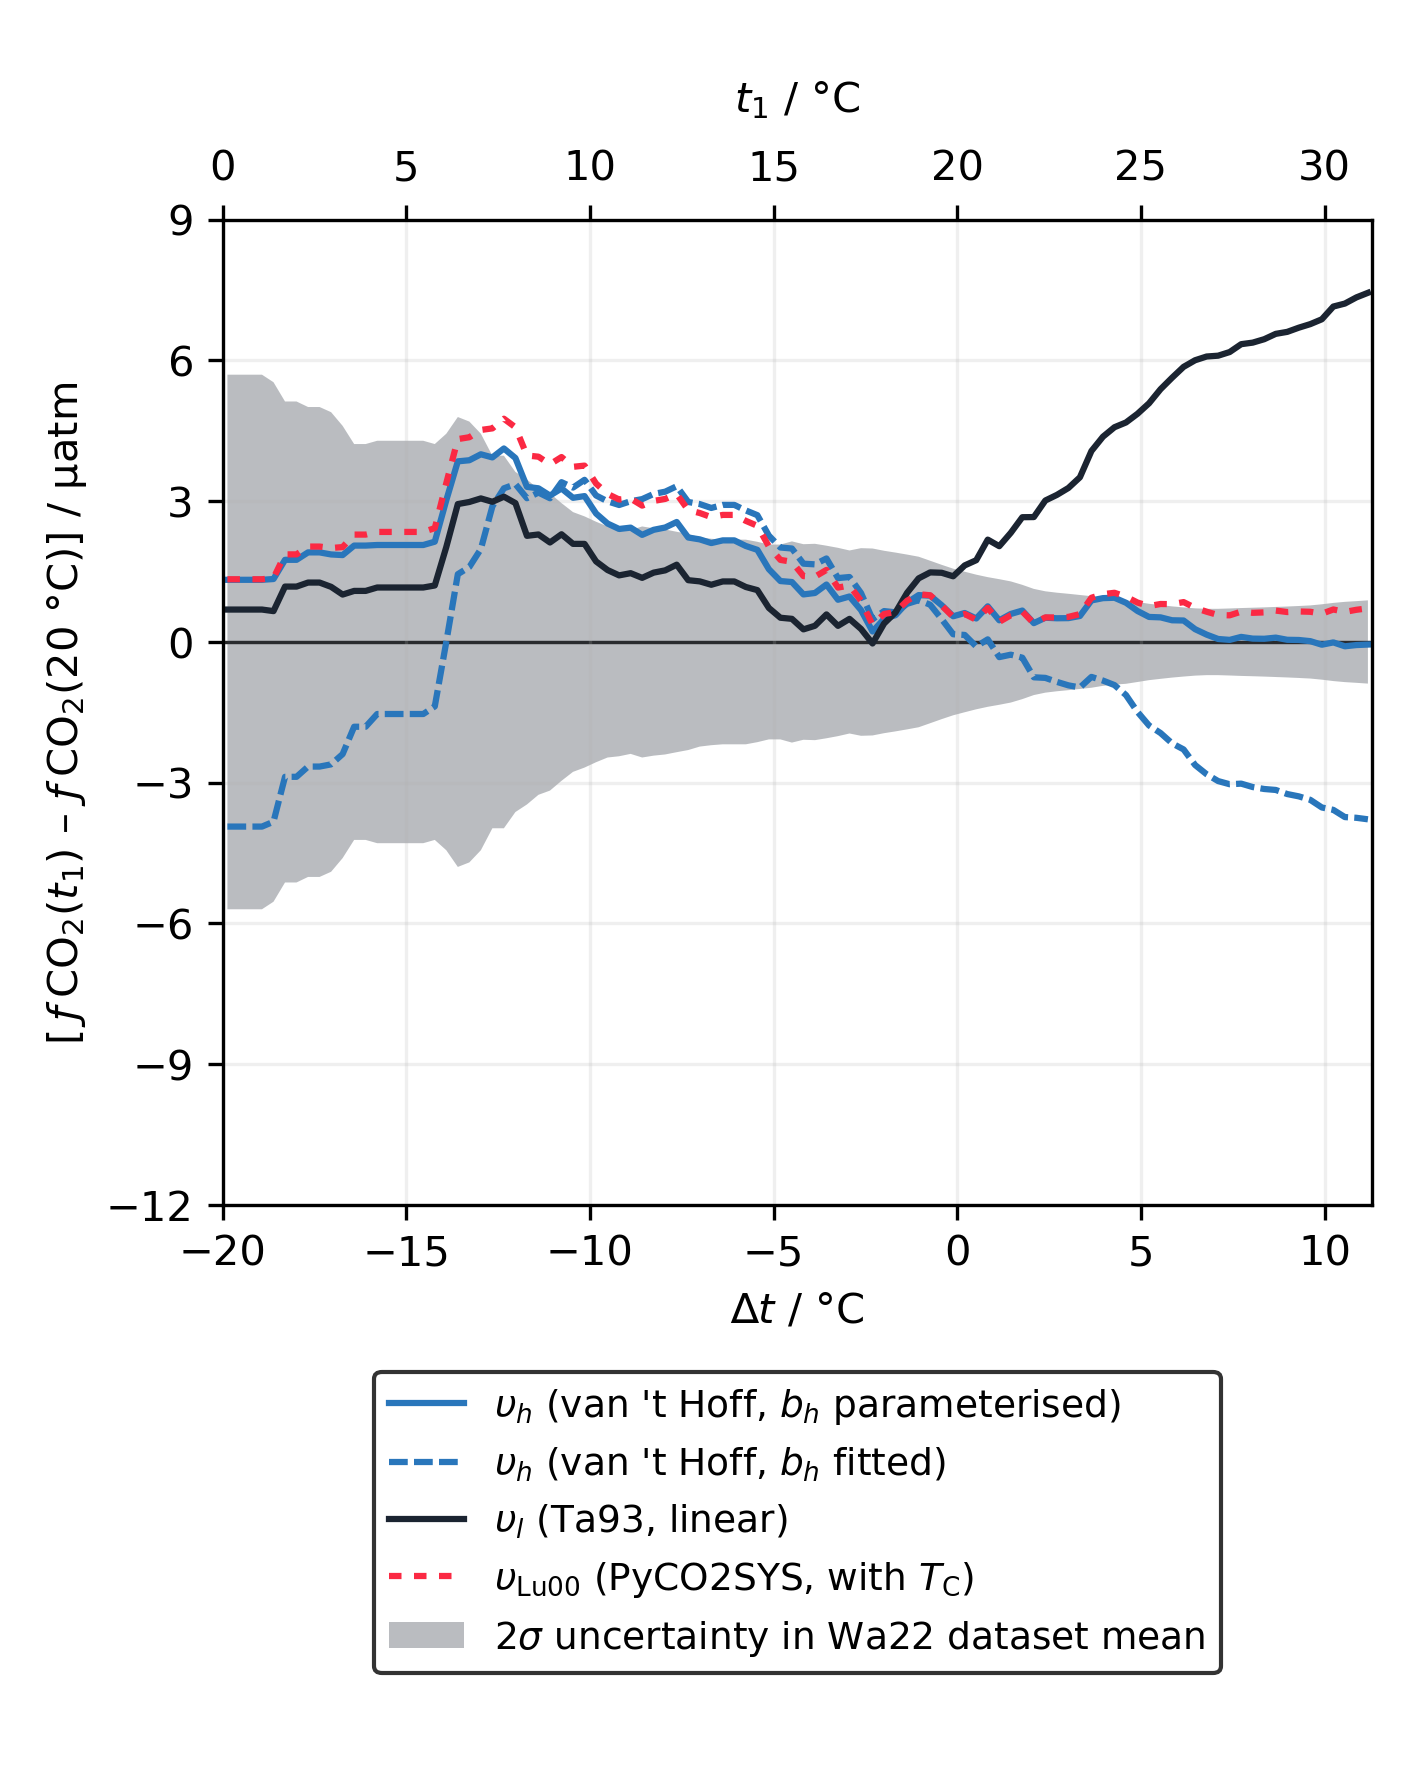
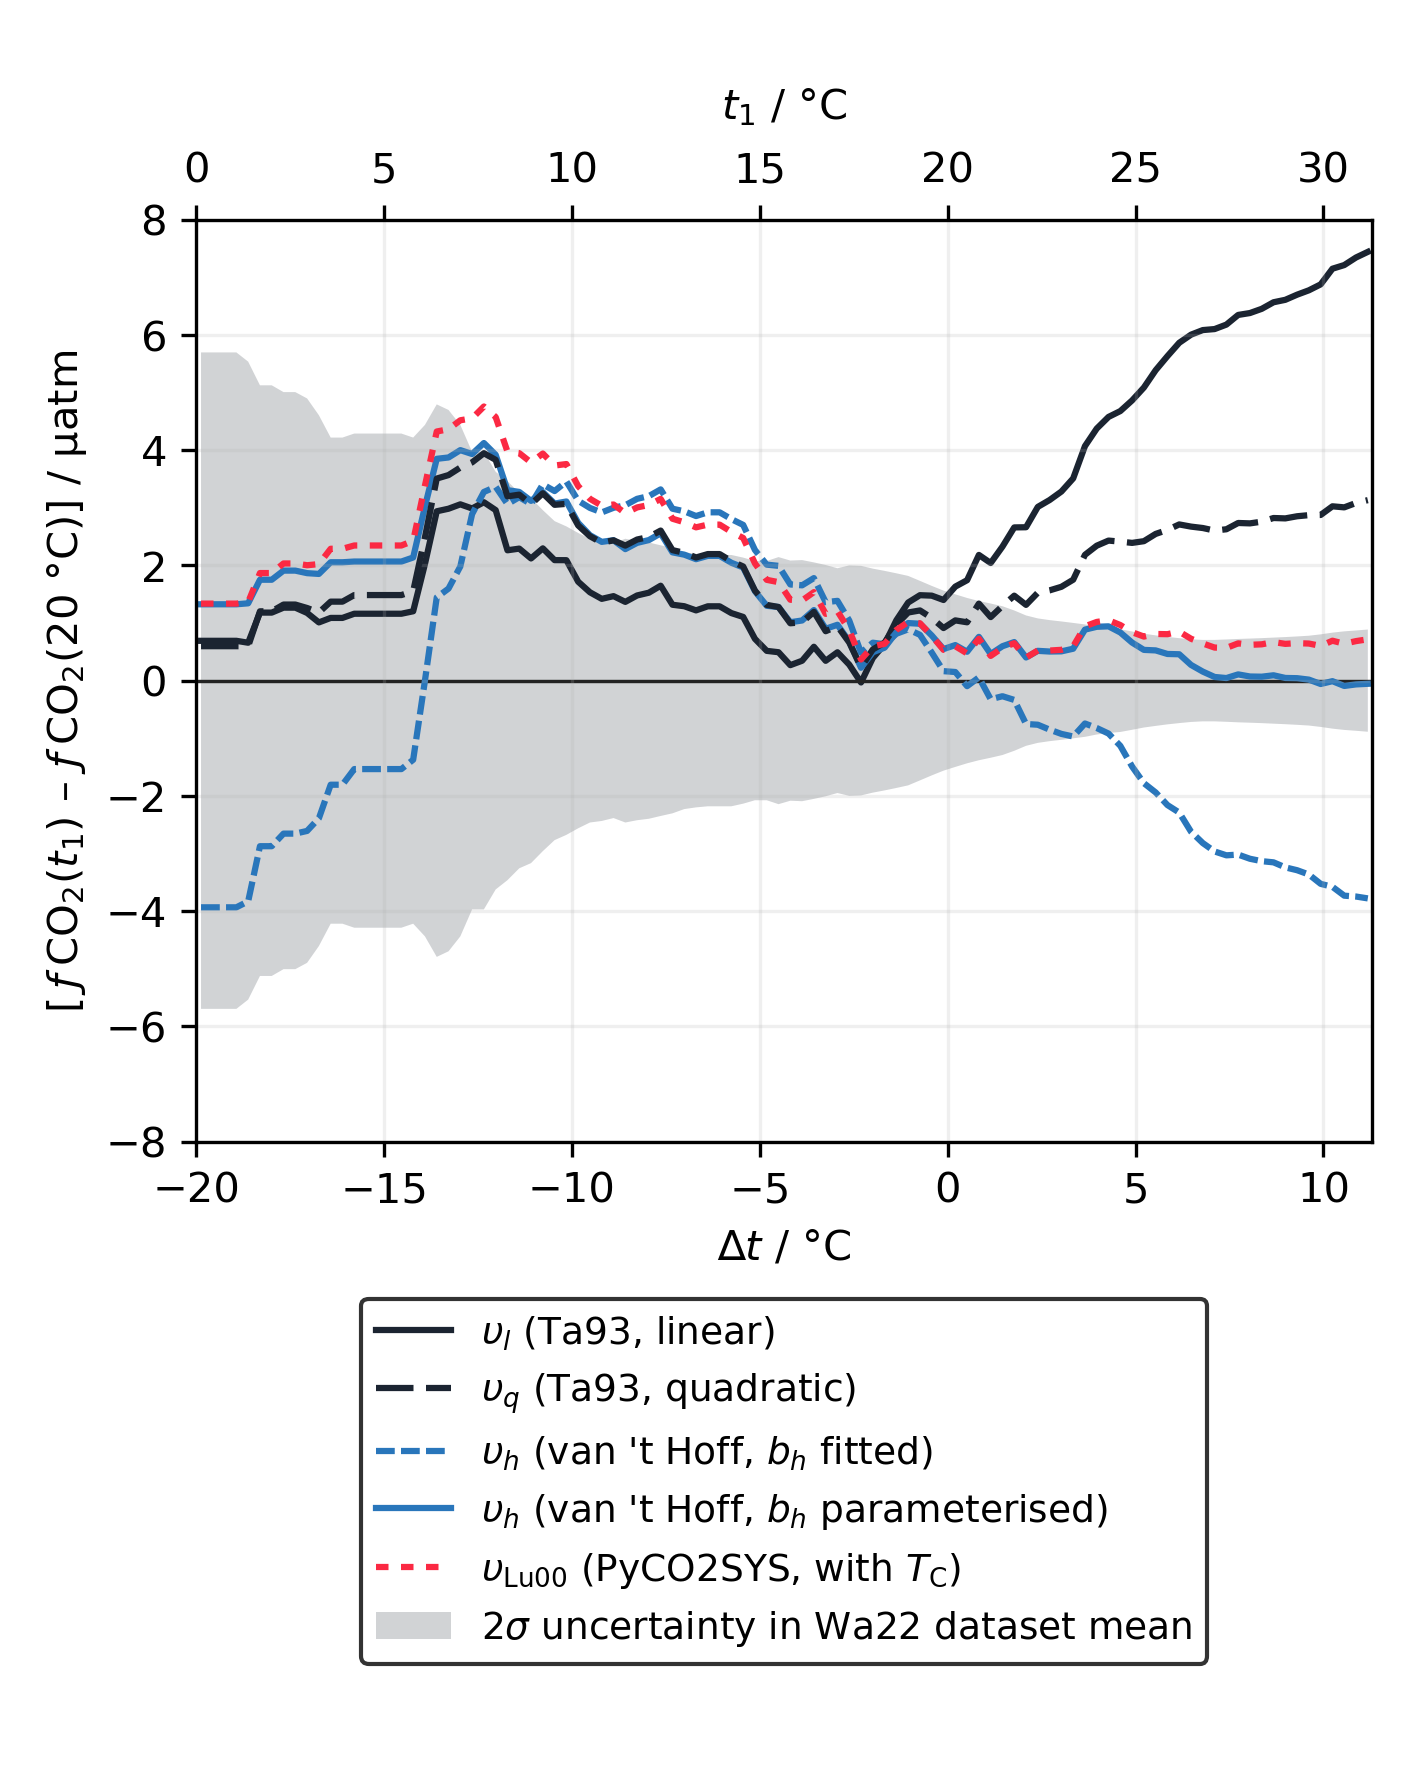
Today's updates

diff --git a/figure2.py b/figure2.py
@@ -61,7 +61,7 @@ results_25 = pyco2.sys(
 wkf["fCO2_calc25"] = results_25["fCO2_out"]
 
 # %% Calculate the fCO2 adjustment with different methods
-opt_at = [1, 2, 5]
+opt_at = [1, 2, 5, 6]
 results = pyco2.sys(
     par1=wkf.fCO2_d20.to_numpy(),
     par1_type=5,
@@ -71,14 +71,23 @@ results = pyco2.sys(
     opt_adjust_temperature=np.vstack(opt_at),
     opt_which_fCO2_insitu=2,
 )
-wkf["fCO2_uw_1"], wkf["fCO2_uw_2"], wkf["fCO2_uw_5"] = results["fCO2_out"]
+wkf["fCO2_uw_1"], wkf["fCO2_uw_2"], wkf["fCO2_uw_5"], wkf["fCO2_uw_6"] = results[
+    "fCO2_out"
+]
 
 # Visualise
 fwindow = 4  # °C
 fx = np.linspace(
     np.min(wkf.temperature_diff) + 0.1, np.max(wkf.temperature_diff) - 0.1, num=100
 )
-fvars = ["fCO2_uw_1", "fCO2_uw_2", "fCO2_uw_5", "fCO2_calc15", "fCO2_calc25"]
+fvars = [
+    "fCO2_uw_1",
+    "fCO2_uw_2",
+    "fCO2_uw_5",
+    "fCO2_uw_6",
+    "fCO2_calc15",
+    "fCO2_calc25",
+]
 for v in fvars:
     wkf[v + "_diff"] = wkf[v] - wkf.fCO2_uw
 fy = {v: np.full(fx.size, np.nan) for v in fvars}
@@ -112,11 +121,21 @@ fig, ax = plt.subplots(dpi=300, figsize=(12 / 2.54, 15 / 2.54))
 # )
 ax.plot(
     fx,
-    fy["fCO2_uw_1"],
-    c=pwtools.blue,
+    fy["fCO2_uw_5"],
+    c=pwtools.dark,
     lw=1.5,
     # alpha=0.8,
-    label="$υ_h$ (van 't Hoff, $b_h$ parameterised)",
+    label="$υ_l$ (Ta93, linear)",
+    zorder=-1,
+)
+ax.plot(
+    fx,
+    fy["fCO2_uw_6"],
+    c=pwtools.dark,
+    lw=1.5,
+    ls=(0, (6, 2)),
+    label="$υ_q$ (Ta93, quadratic)",
+    zorder=2,
 )
 ax.plot(
     fx,
@@ -126,14 +145,16 @@ ax.plot(
     ls=(0, (3, 1)),
     # alpha=0.8,
     label="$υ_h$ (van 't Hoff, $b_h$ fitted)",
+    zorder=1,
 )
 ax.plot(
     fx,
-    fy["fCO2_uw_5"],
-    c=pwtools.dark,
+    fy["fCO2_uw_1"],
+    c=pwtools.blue,
     lw=1.5,
     # alpha=0.8,
-    label="$υ_l$ (Ta93, linear)",
+    label="$υ_h$ (van 't Hoff, $b_h$ parameterised)",
+    zorder=0,
 )
 # ax.plot(
 #     fx,
@@ -151,6 +172,7 @@ ax.plot(
     ls=(2, (2,)),
     # alpha=0.8,
     label=r"$υ_\mathrm{Lu00}$ (PyCO2SYS, with $T_\mathrm{C}$)",
+    zorder=3,
 )
 ax.fill_between(
     fx,
@@ -158,18 +180,19 @@ ax.fill_between(
     2 * fu["fCO2_uw_1"],
     color=pwtools.dark,
     edgecolor="none",
-    alpha=0.3,
+    alpha=0.2,
     label="2$σ$ uncertainty in Wa22 dataset mean",
+    zorder=-2,
 )
 ax.axhline(0, c="k", lw=0.8, zorder=-1)
-ax.set_ylim([-9, 9])
-ax.set_yticks(np.arange(-12, 12, 3))
+ax.set_yticks(np.arange(-12, 12, 2))
+ax.set_ylim([-8, 8])
 ax.set_xticks(np.arange(-20, 15, 5))
 ax.set_xlim([-20, 11.3])
 ax.set_xlabel("∆$t$ / °C")
 ax.tick_params(top=True, labeltop=False)
 for t in np.arange(0, 35, 5):
-    ax.text(t - 20, 9.65, "{}".format(t), ha="center", va="bottom")
+    ax.text(t - 20, 8.5, "{}".format(t), ha="center", va="bottom")
 ax.text(0.5, 1.1, "$t_1$ / °C", ha="center", va="bottom", transform=ax.transAxes)
 ax.grid(alpha=0.2)
 ax.set_ylabel(

diff --git a/kanwisher60.py b/kanwisher60.py
@@ -1,5 +1,6 @@
 import numpy as np
 from matplotlib import pyplot as plt
+import takahashi93 as t93
 
 # Data extracted from Kanwisher (1960) Fig. 2 using plotdigitizer.com
 temperature = np.array(
@@ -28,6 +29,35 @@ fit = np.polyfit(temperature, np.log(pCO2), 1)
 
 fig, ax = plt.subplots(dpi=300)
 ax.scatter(temperature, np.log(pCO2))
+ax.scatter(t93.temperature, np.log(t93.pCO2))
 ax.plot(temperature, np.polyval(fit, temperature))
 ax.set_xlabel("Temperature / °C")
 ax.set_ylabel("ln($p$CO$_2$ / µatm)")
+
+
+# Kanwisher data for Fig. 1 --- plot k60_temperature vs (k60_pCO2 - k60_norm)
+k60_temperature = np.array(
+    [
+        11.024958402662229,
+        12.04991680532446,
+        13.960066555740433,
+        15.194675540765392,
+        17.943427620632278,
+        19.62063227953411,
+        21.46089850249584,
+    ]
+)
+k60_pCO2 = np.array(
+    [
+        290.33674963396777,
+        303.22108345534406,
+        330.4538799414348,
+        345.9736456808199,
+        390.77598828696927,
+        420.93704245973646,
+        442.89897510980967,
+    ]
+)
+k60_lnpCO2 = np.log(k60_pCO2)
+k60_intercept = np.mean(k60_lnpCO2 - 0.0423 * k60_temperature)
+k60_norm = np.exp(k60_temperature * 0.0423 + k60_intercept)

diff --git a/si_predict_bh.py b/si_predict_bh.py
@@ -44,7 +44,7 @@ if not use_quickload:
     soda_monthly["fCO2"] = (("month", "lat", "lon"), results["fCO2"])
 
     # Fit bh across the globe
-    ex_temperature = np.linspace(-1.8, 35.83)
+    ex_temperature = np.linspace(-1.8, 35.83, num=50)
     soda_monthly["ex_temperature"] = ("ex_temperature", ex_temperature)
     soda_monthly = soda_monthly.set_coords("ex_temperature")
     ex_fCO2 = np.full((*soda_monthly.dlnfCO2_dT.shape, ex_temperature.size), np.nan)

diff --git a/figure1.py b/figure1.py
@@ -11,7 +11,7 @@ from matplotlib import pyplot as plt
 import takahashi93 as t93
 import pwtools
 
-# Do own "linear regression" (forced to T93 slope) and quadratic fit
+# %% Do own "linear regression" (forced to T93 slope) and quadratic fit
 fCO2 = t93.get_fCO2(10, 1)
 lr_pCO2 = linregress(
     t93.temperature, np.log(t93.pCO2)

diff --git a/figure3.py b/figure3.py
@@ -172,7 +172,7 @@ ax.fill_betweenx(
     np.min(t93.temperature),
     np.max(t93.temperature),
     facecolor=pwtools.dark,
-    alpha=0.3,
+    alpha=0.2,
     label="Ta93 $t$ range",
 )
 ax.set_ylabel(r"$σ$[exp($Υ$)] for ∆$t$ = " + "${dt:+}$ °C / %".format(dt=f_dt))
